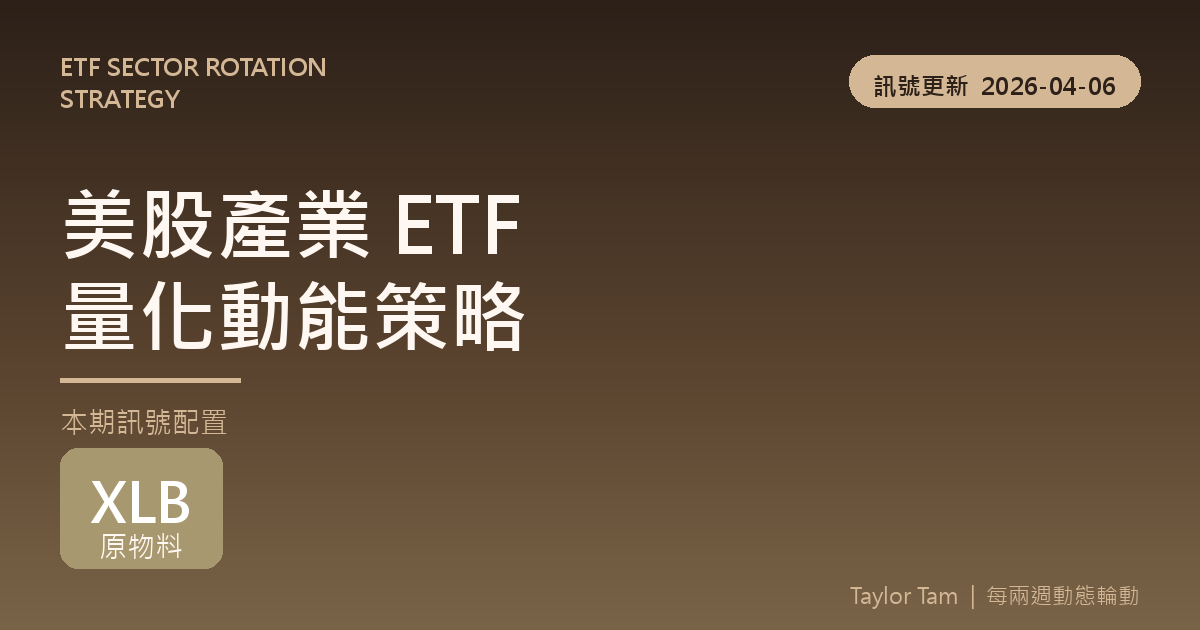
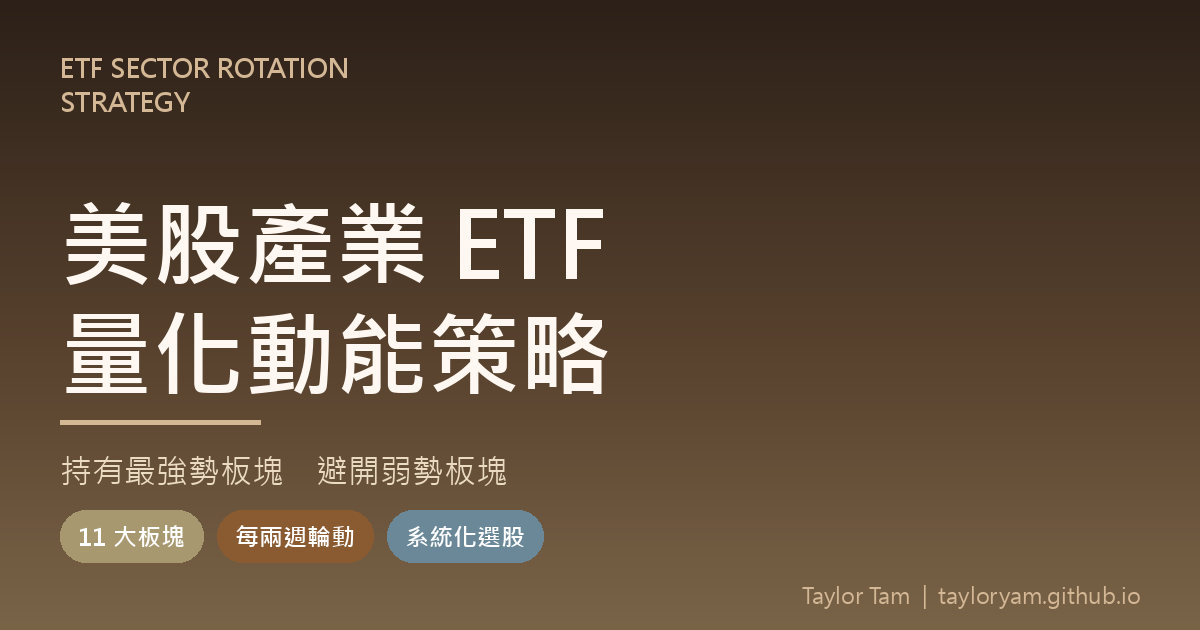
Auto-update report 2026-04-08

diff --git a/index.html b/index.html
@@ -4,18 +4,18 @@
 <meta charset="UTF-8">
 <meta name="viewport" content="width=390, initial-scale=1.0">
 <title>美股產業 ETF 量化動能策略｜Taylor Tam</title>
-<meta name="description" content="美股產業 ETF 量化動能策略 — 系統性篩選當下最強勢的美股板塊，每兩週重新評估。由 Taylor Tam 建置。">
+<meta name="description" content="持有最強勢板塊，避開弱勢板塊。11 大美股產業 ETF，每兩週系統化輪動。由 Taylor Tam 建置。">
 <meta property="og:type" content="website">
 <meta property="og:url" content="https://tayloryam.github.io/spy-sector-report/">
 <meta property="og:title" content="美股產業 ETF 量化動能策略｜Taylor Tam">
-<meta property="og:description" content="系統性篩選當下最強勢的美股產業 ETF，每兩週動態輪動。最新更新：2026-04-08">
+<meta property="og:description" content="持有最強勢板塊，避開弱勢板塊。11 大美股產業 ETF，每兩週系統化輪動。">
 <meta property="og:image" content="https://tayloryam.github.io/spy-sector-report/og.png">
 <meta property="og:image:width" content="1200">
 <meta property="og:image:height" content="630">
 <meta property="og:site_name" content="SPY Sector Rotation">
 <meta name="twitter:card" content="summary_large_image">
 <meta name="twitter:title" content="美股產業 ETF 量化動能策略｜Taylor Tam">
-<meta name="twitter:description" content="系統性篩選當下最強勢的美股產業 ETF，每兩週動態輪動。最新更新：2026-04-08">
+<meta name="twitter:description" content="持有最強勢板塊，避開弱勢板塊。11 大美股產業 ETF，每兩週系統化輪動。">
 <meta name="twitter:image" content="https://tayloryam.github.io/spy-sector-report/og.png">
 <!-- Last updated: 2026-04-08 -->
 <meta http-equiv="Cache-Control" content="no-cache, no-store, must-revalidate">
